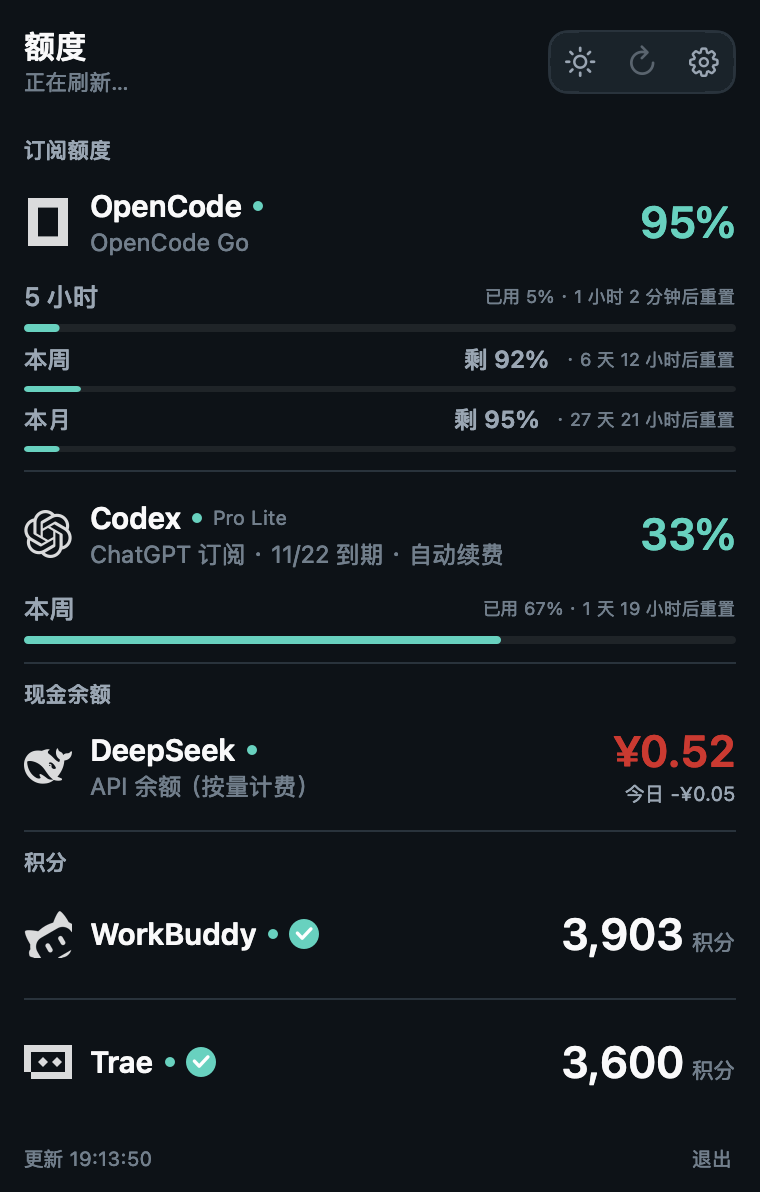
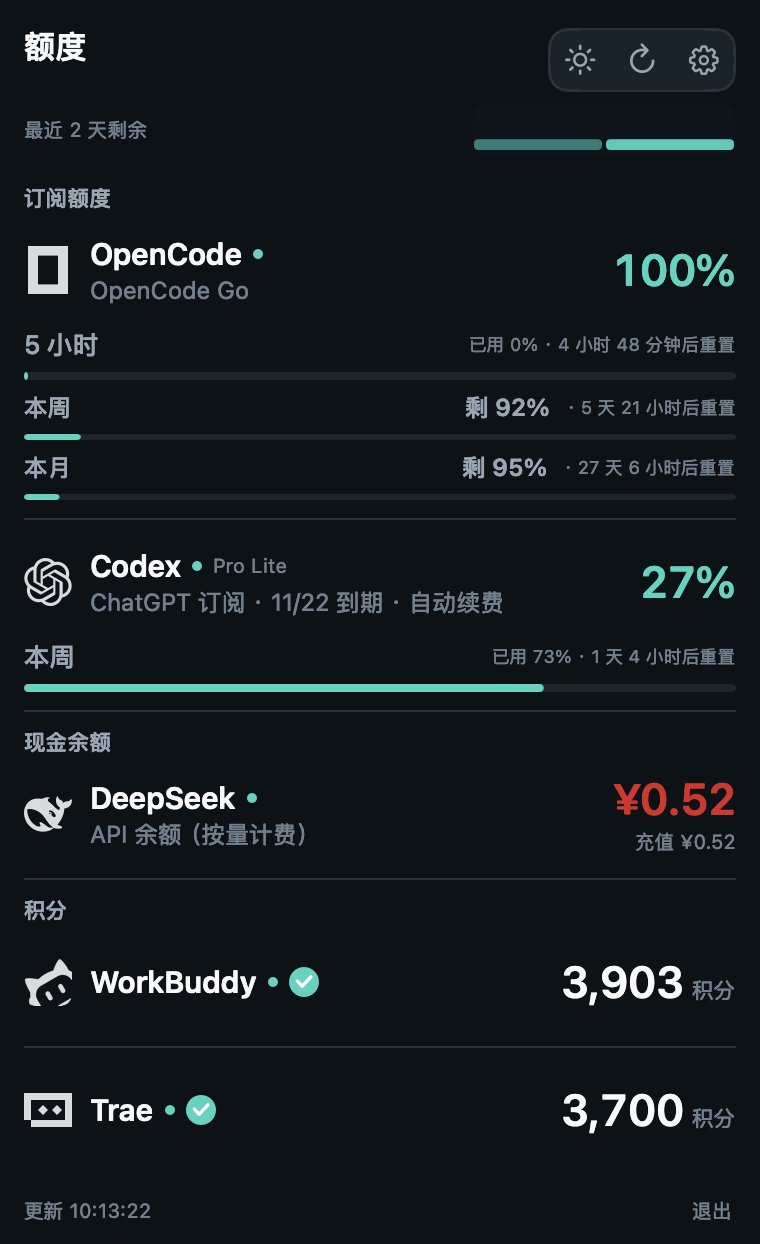
Group provider categories and clean history samples

diff --git a/Sources/AgentQuotaBar/PopoverViewController.swift b/Sources/AgentQuotaBar/PopoverViewController.swift
@@ -317,12 +317,20 @@ final class QuotaPopoverViewController: NSViewController {
         costLabel.setAccessibilityValue(hasCost ? cost! : "无数据")
 
         let resolved = resolvedHistory()
+        let actual = resolved.values.compactMap { $0 }
         // 只有 1 天数据时不画一根孤零零的柱子；至少 2 天才构成“趋势”。
-        let hasHistory = resolved.values.compactMap { $0 }.count >= 2
-        // 剩余百分比固定 0–100 域，避免“只有一天/数值很小”被归一化成满格。
+        let hasHistory = actual.count >= 2
+        // 不再为缺失日期画灰点；只画真实采样，避免“近 7 天”里出现 5 个空点。
         sparkline.domainMax = resolved.caption.contains("成本") ? nil : 100
-        sparkline.values = resolved.values
-        historyCaptionLabel.stringValue = resolved.caption
+        sparkline.values = actual
+        if actual.count < 7 {
+            historyCaptionLabel.stringValue = resolved.caption.replacingOccurrences(
+                of: "近 7 天",
+                with: "最近 \(actual.count) 天"
+            )
+        } else {
+            historyCaptionLabel.stringValue = resolved.caption
+        }
         historyRow.isHidden = !hasHistory
     }
 
@@ -508,6 +516,13 @@ final class QuotaPopoverViewController: NSViewController {
         }
         for provider in snapshot.providers where provider.status != "disabled" && !result.contains(where: { $0.id == provider.id }) {
             result.append(provider)
+        }
+        // 服务顺序可以自定义，但分组顺序固定：订阅额度 → 现金余额 → 积分。
+        let categoryRank = ["订阅额度": 0, "现金余额": 1, "积分": 2]
+        result.sort {
+            let left = categoryRank[Self.category(for: $0)] ?? 9
+            let right = categoryRank[Self.category(for: $1)] ?? 9
+            return left < right
         }
         return result
     }
